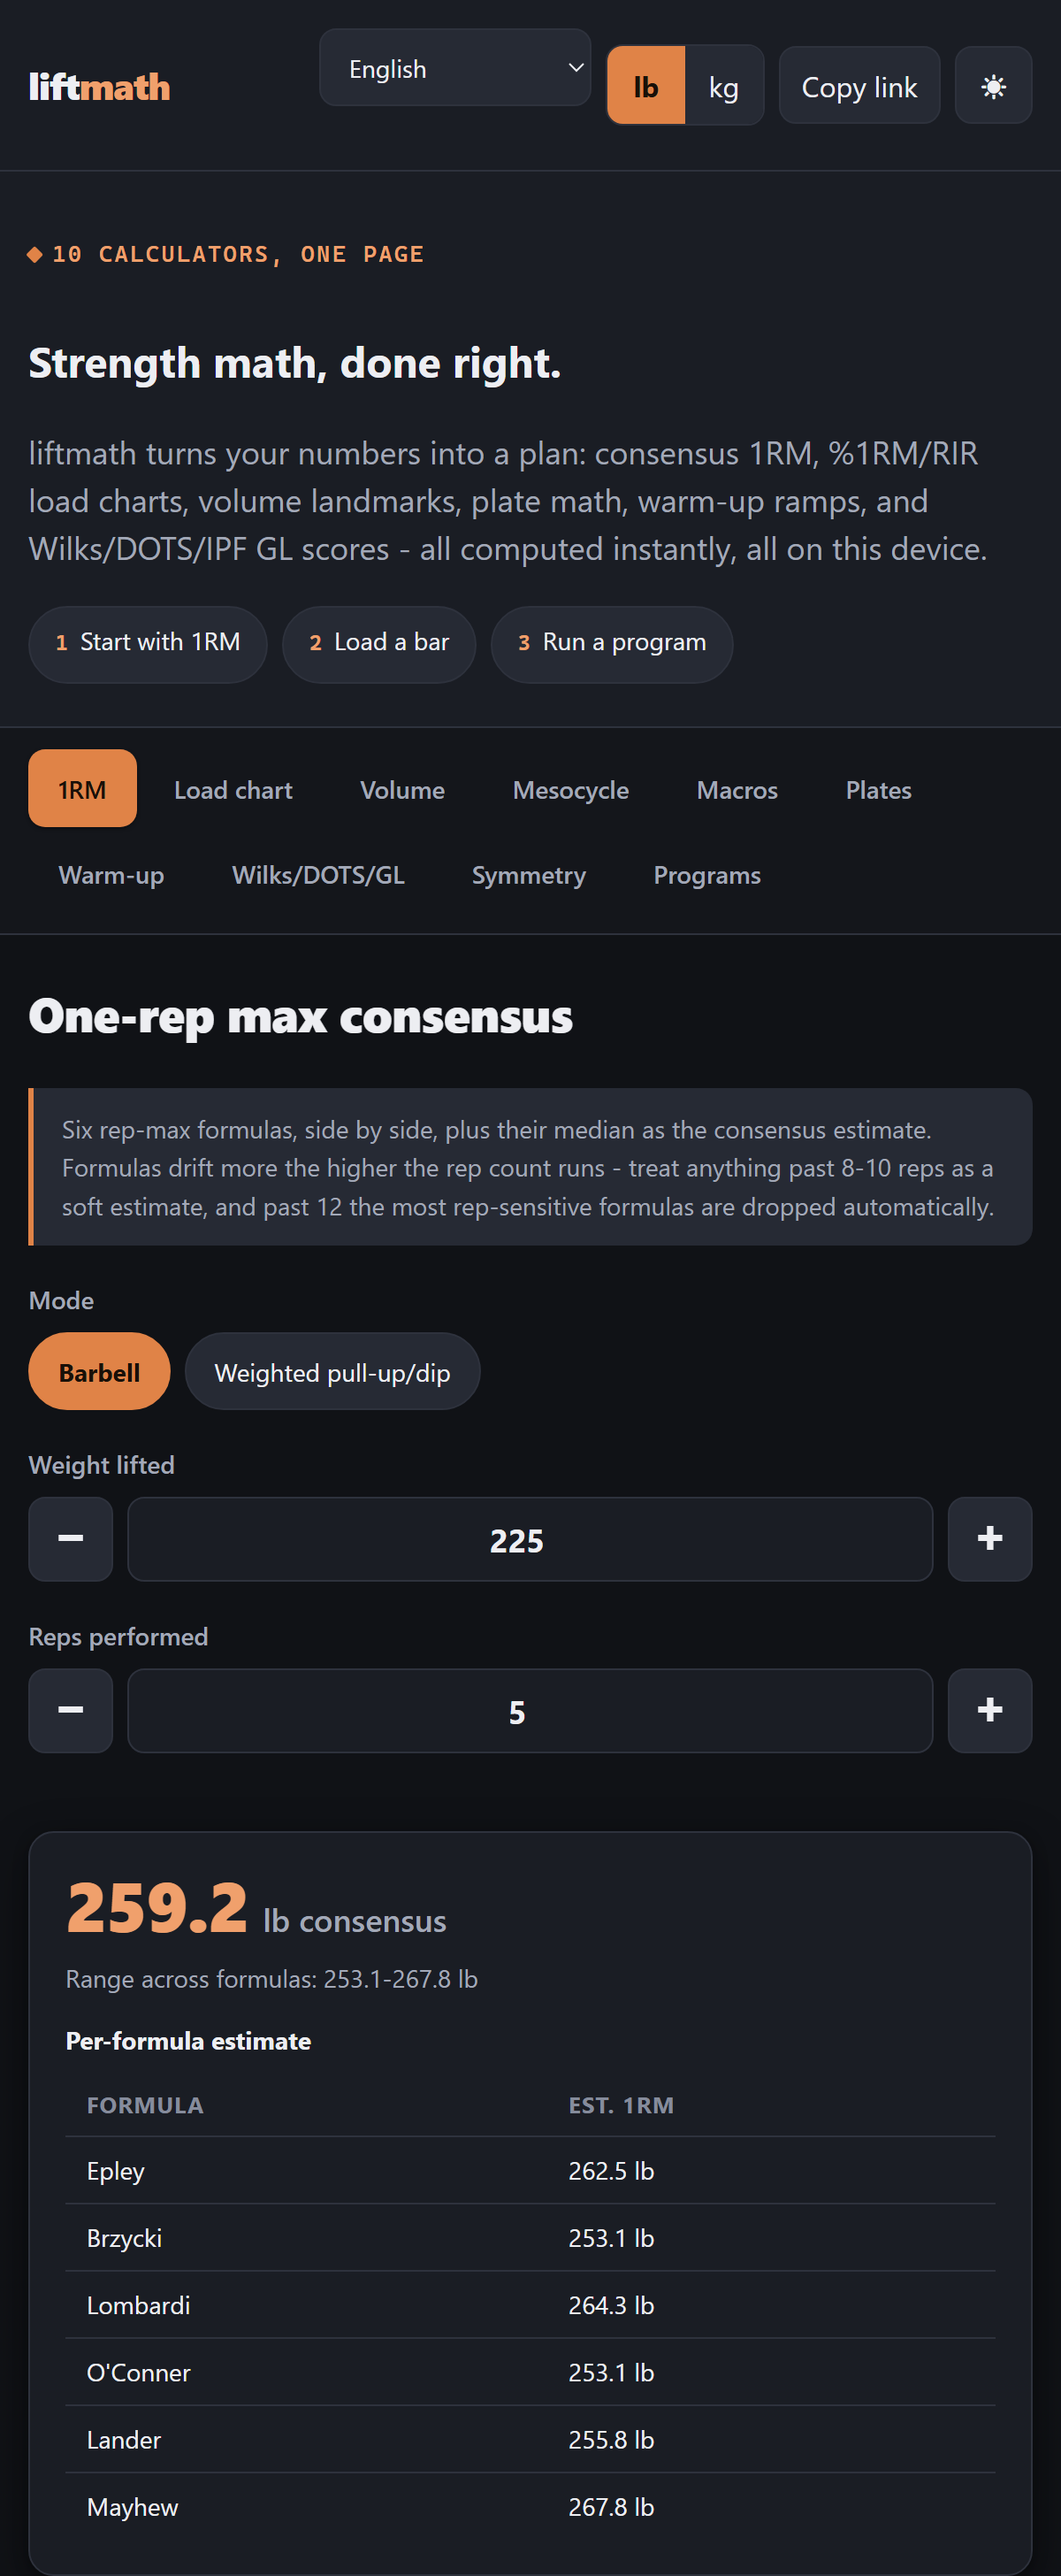
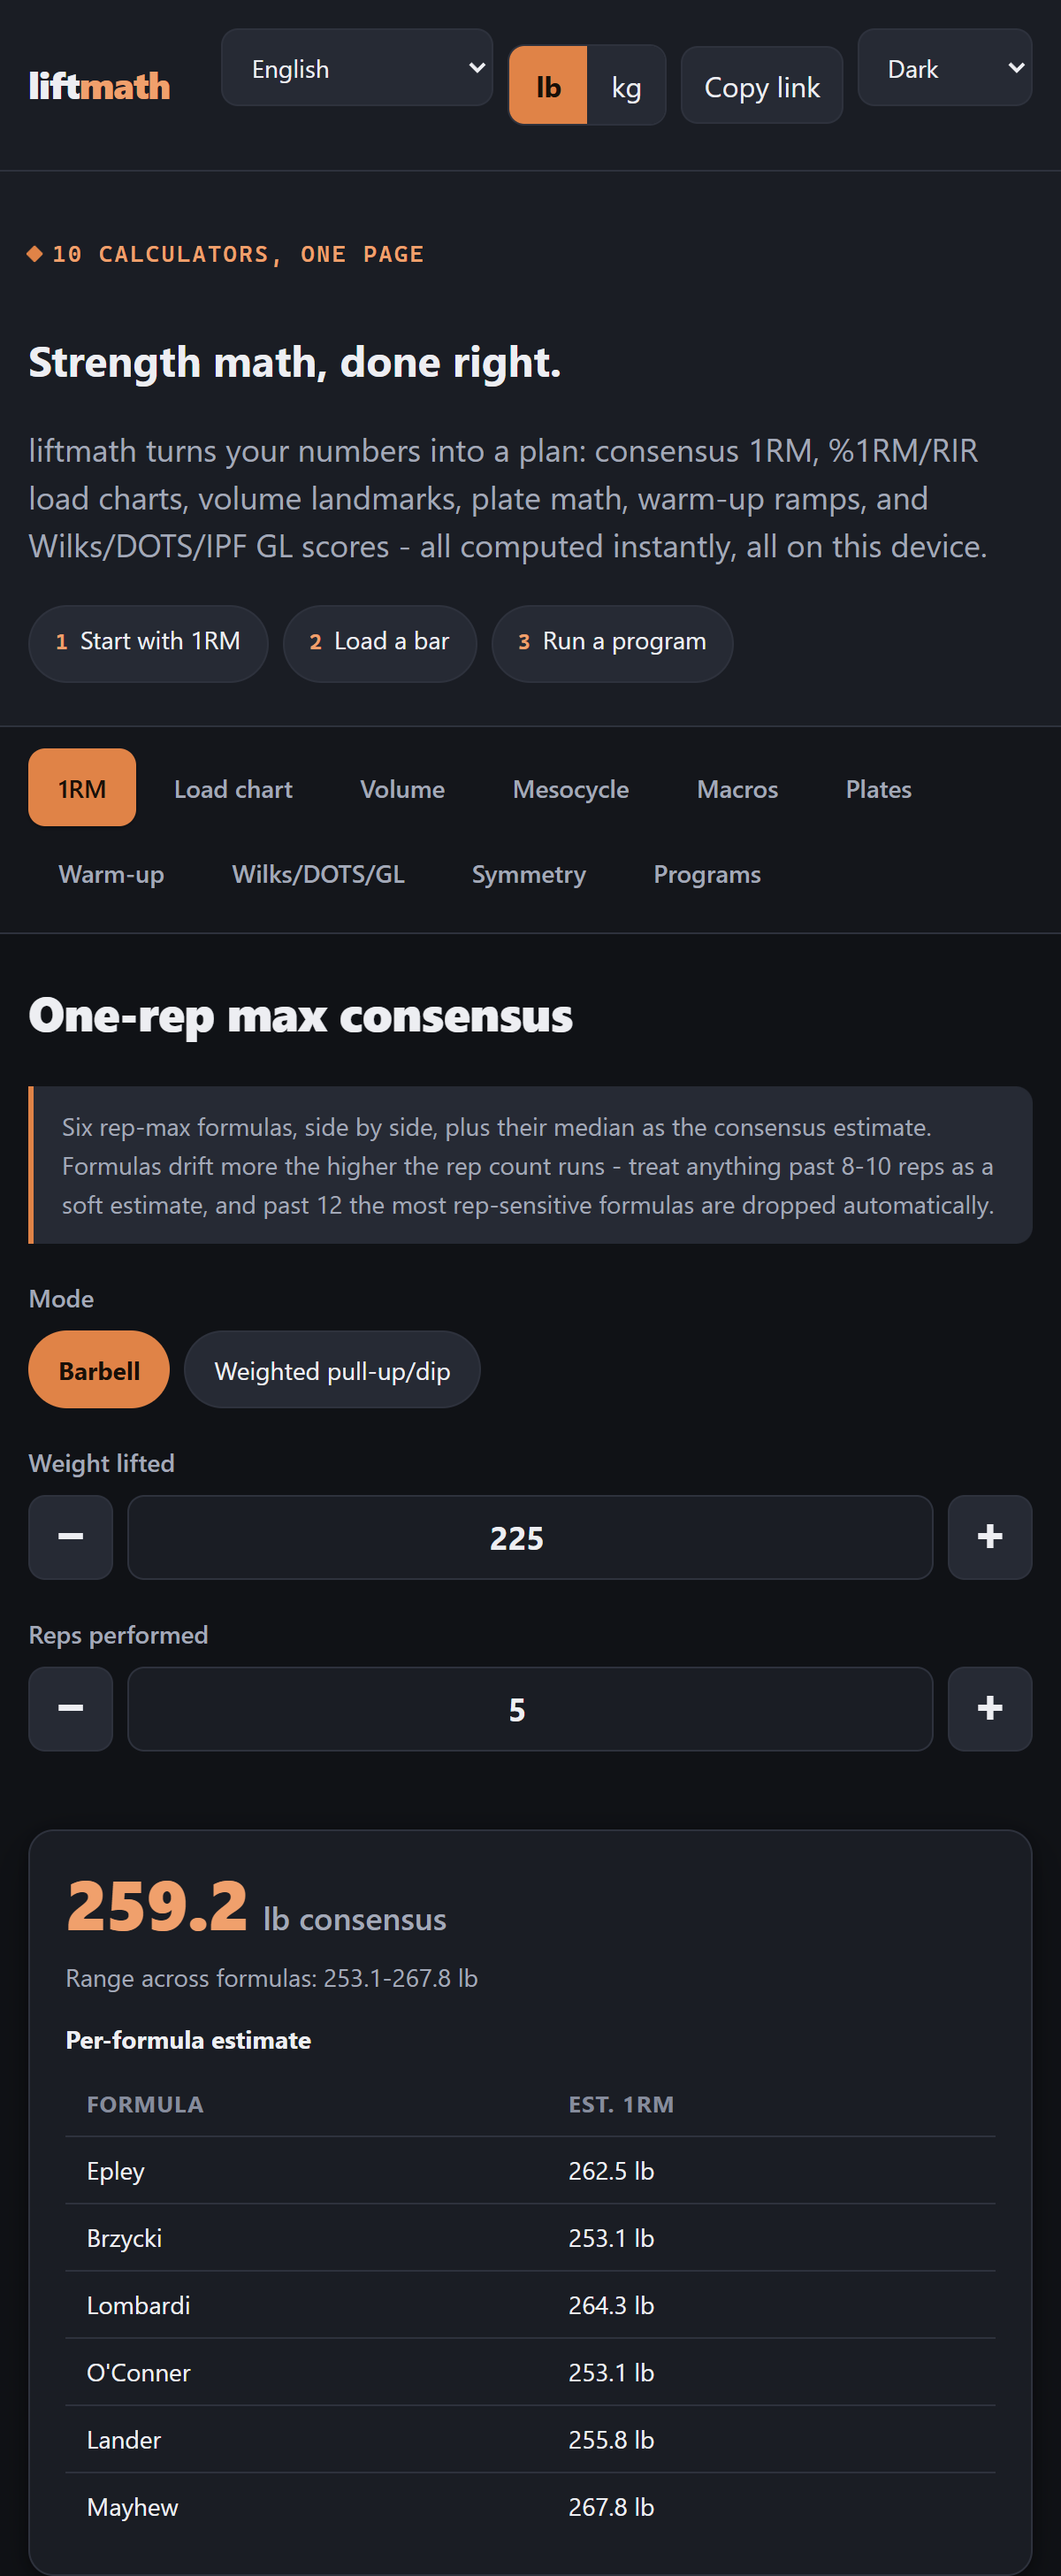
Refresh screenshots for the new theme picker, bump the footer version
app-dark.png and docs/screenshot.png still showed the old dark/light toggle
button and a stale v1.0.0 footer. Regenerated both against the live app -
also caught that the footer version has no build step wiring it to
pyproject.toml, so it was still 1.1.0; bumped it and left a comment that
it needs a hand-bump alongside CACHE_NAME each release. README now mentions
the eight themes in the Web app section.

diff --git a/web/index.html b/web/index.html
@@ -652,7 +652,9 @@
     <span class="offline-indicator" id="offline-indicator"><span class="dot" aria-hidden="true"></span> <span id="offline-indicator-text">online</span></span>
     &middot; <span id="footer-tagline">liftmath is a calculator, not a coach - informational only, not medical or nutrition advice.</span>
   </p>
-  <p><a href="https://github.com/munzzyy/liftmath" rel="noopener" id="footer-source-link">source on GitHub</a> &middot; v<span id="app-version">1.1.0</span></p>
+  <!-- app-version has no build step to read it from pyproject.toml automatically -
+       bump it by hand alongside CACHE_NAME whenever a release changes web/. -->
+  <p><a href="https://github.com/munzzyy/liftmath" rel="noopener" id="footer-source-link">source on GitHub</a> &middot; v<span id="app-version">1.2.0</span></p>
 </footer>
 
 <script type="module" src="js/app.js"></script>

diff --git a/web/sw.js b/web/sw.js
@@ -8,7 +8,7 @@
 // No CDN, no external requests exist to cache (there aren't any) - every URL
 // below is same-origin, matching the zero-dependency constraint.
 
-const CACHE_NAME = "liftmath-v8";
+const CACHE_NAME = "liftmath-v9";
 
 const PRECACHE_URLS = [
   "./",

diff --git a/README.md b/README.md
@@ -358,6 +358,12 @@ math and its cited sources are identical underneath, and the JavaScript is
 pinned to the Python either way (see below), so a Wilks score in Thai is the
 same number as in English.
 
+Eight themes, also from the header - light and dark, plus Iron (true OLED
+black), Chalk, Rust, Forest, a max-contrast accessibility mode, and Neon.
+Auto follows your system by default; whatever you pick is remembered and
+applied before the page paints, so a saved theme never flashes the wrong one
+first.
+
 The JavaScript in `web/js/math/` is hand-mirrored from the Python in
 `src/liftmath/` and checked against it: `tools/gen_fixtures.py` runs the
 Python reference across an edge-case input matrix and writes the results to
